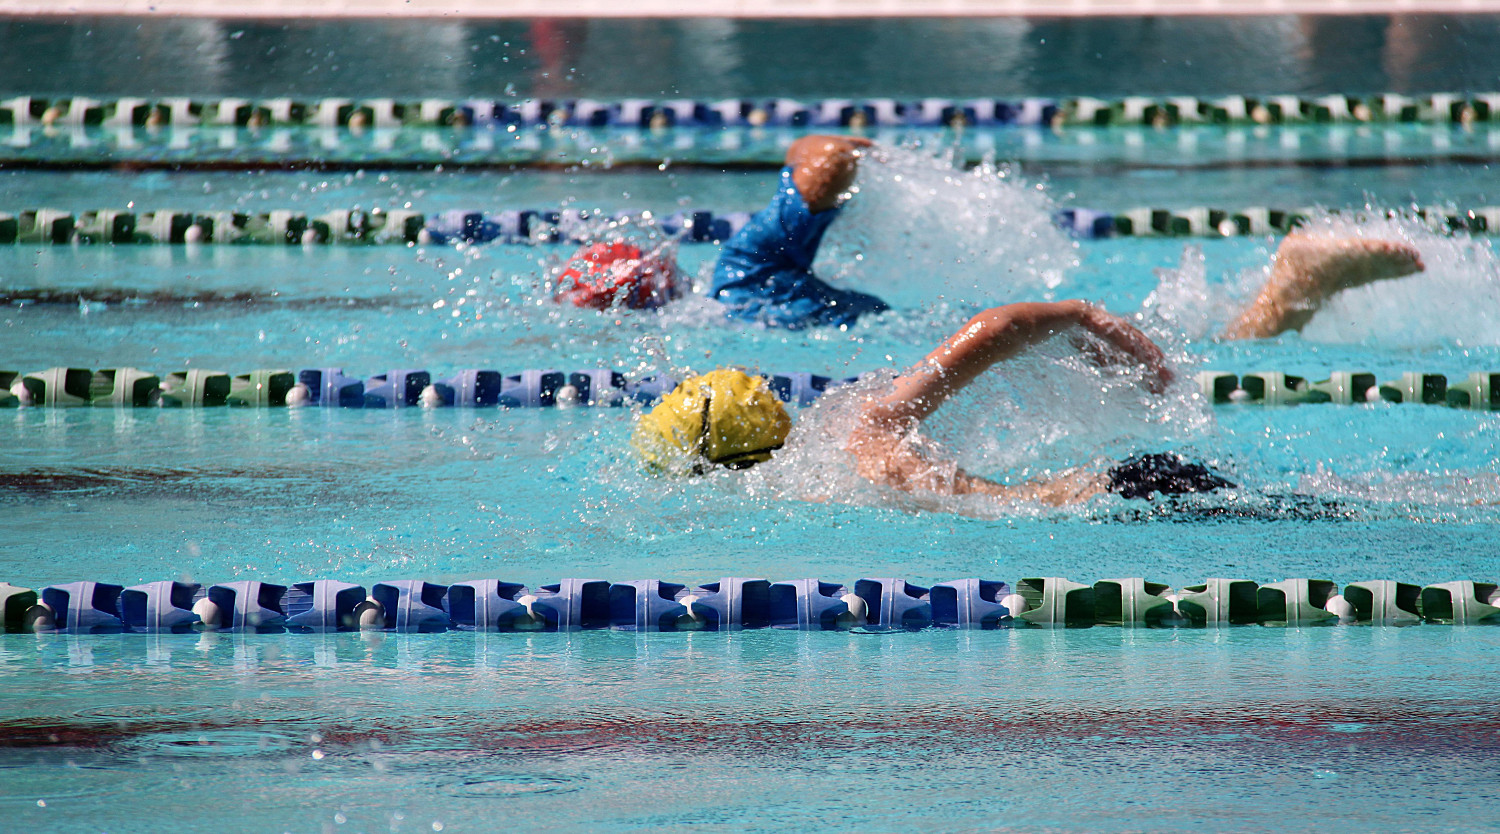
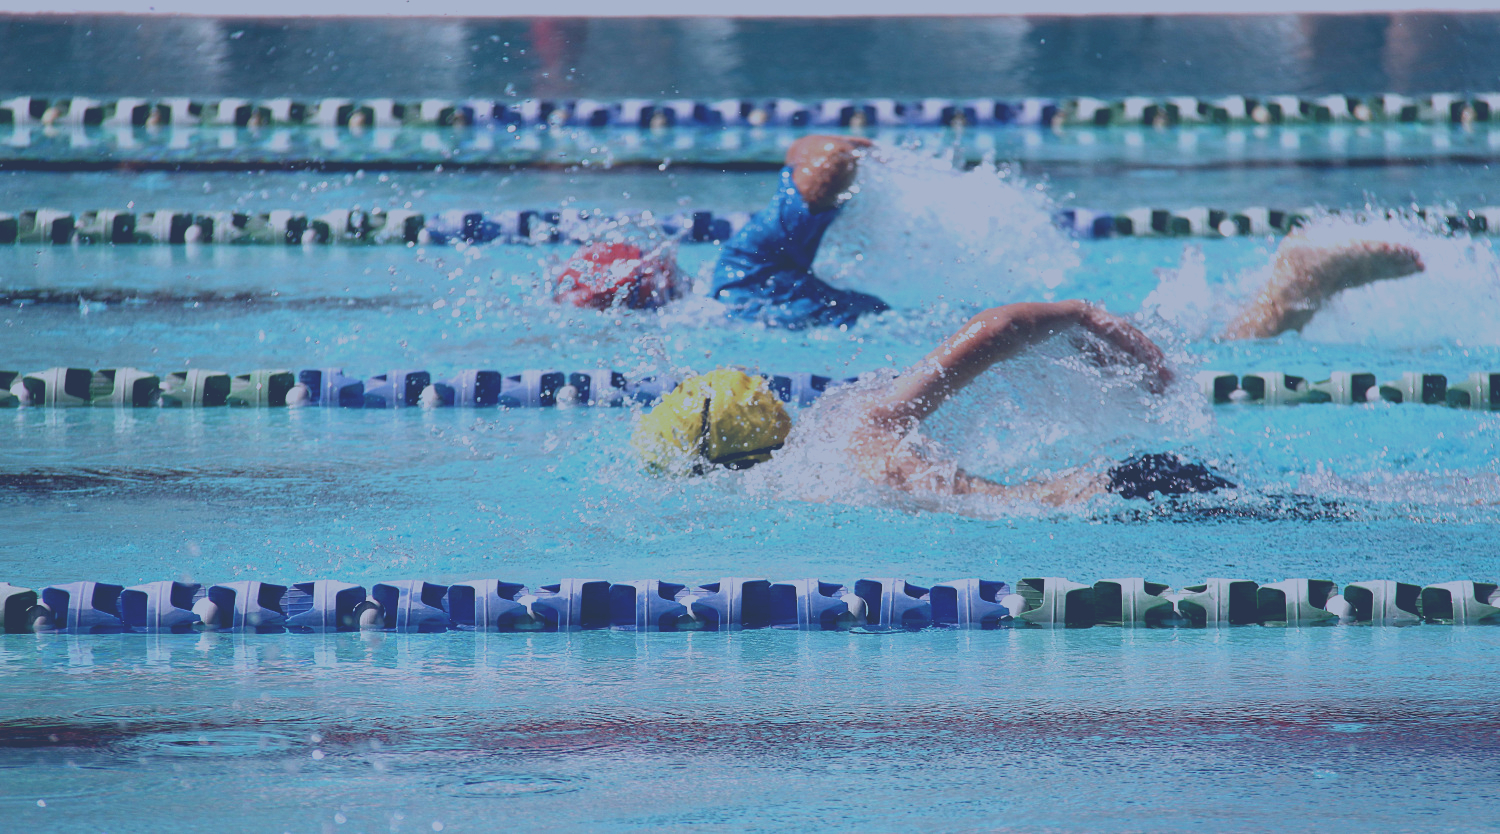
Added offer/user-registration form layout, styles and backend logic

diff --git a/app/Resources/style/partials/offerRegistration.scss b/app/Resources/style/partials/offerRegistration.scss
@@ -1,12 +1,27 @@
 // Offer registration page
-
 .background-image {
   width: 100%;
-  height: 345px;
   margin-top: -20px;
   background-image: url('../images/offer-register-background.jpg');
   background-position: center;
   background-size: cover;
+  display: table;
+}
+
+.title {
+  color: #fff;
+  margin: 0;
+  text-shadow: 0 0 20px #000;
+}
+
+.header-text {
+  text-align: center;
+  width: 100%;
+}
+
+.header-text,
+.background-image {
+  height: 345px;
 }
 
 .registration-pull-up {
@@ -16,10 +31,10 @@
   background-color: #fff;
   border: 1px solid #ccc;
   margin-bottom: 25px;
-  border-radius: 3px;
+  border-radius: 10px;
 }
 
-.registration-content {
+.content-form {
   border-radius: 3px;
   background-color: #fff;
   padding: 60px 30px 0;
@@ -92,7 +107,7 @@
     display: inline-block;
   }
 
-  .offer-submit {
+  .submit {
     width: 100%;
     margin-bottom: 30px;
     border-width: 0;
@@ -113,7 +128,8 @@
 }
 
 @media (max-width: 768px) {
-  .background-image {
+  .background-image,
+  .header-text {
     height: 100px;
   }
 
@@ -123,7 +139,11 @@
 }
 
 @media (min-width: 769px) {
-  .registration-content {
+  .content-form {
     max-width: 760px;
+  }
+
+  .content-form.narrow {
+    max-width: 480px;
   }
 }

diff --git a/src/AppBundle/Controller/HomeController.php b/src/AppBundle/Controller/HomeController.php
@@ -63,16 +63,6 @@ class HomeController extends Controller
     }
 
     /**
-     * User login action.
-     *
-     * @return Response
-     */
-    public function loginAction()
-    {
-        return $this->render('AppBundle:Home:login.html.twig', []);
-    }
-
-    /**
      * Coach info action.
      *
      * @param Request $request
@@ -87,13 +77,40 @@ class HomeController extends Controller
         $form->handleRequest($request);
 
         if ($form->isSubmitted() && $form->isValid()) {
+            // If user creates an account when registering an offer, we pass
+            // the offer being created and the user information to the
+            // user registration action, and then we persist the
+            // offer being created.
+            $userFields = $request->request->get('offer')['user'];
+            $userFields['_token'] = $request->request->get('_registration_token');
+            $request->request->set('_internal', true);
+            $request->request->set('fos_user_registration_form', $userFields);
+            $response = $this->forward(
+                'FOSUserBundle:Registration:register',
+                ['offer' => $offer]
+            );
             $em = $this->getDoctrine()->getManager();
             $em->persist($offer);
             $em->flush();
         }
 
+        // Checking if class level assertions failed and setting variables
+        // for the template to render error classes on invalid fields.
+        $errors = [
+            'ages' => false,
+            'gender' => false,
+        ];
+        foreach ($form->getErrors() as $error) {
+            if ($parameters = $error->getMessageParameters()) {
+                if (isset($parameters['id'])) {
+                    $errors[$parameters['id']] = $error->getMessage();
+                }
+            }
+        }
+
         return $this->render('AppBundle:Home:coaches.html.twig', [
             'form' => $form->createView(),
+            'errors' => $errors,
         ]);
     }
 

diff --git a/src/AppBundle/Form/OfferType.php b/src/AppBundle/Form/OfferType.php
@@ -51,13 +51,16 @@ class OfferType extends AbstractType
             ->addModelTransformer(new ImageTransformer())
             ->add('activity', null, [
                 'label' => 'Sporto šaka',
+                'placeholder' => 'Pasirinkite',
             ])
             ->add('latitude', null, [
                 'label' => false,
             ])
             ->add('longitude', null, [
                 'label' => false,
-            ]);
+            ])
+            ->add('user', new RegistrationType())
+        ;
     }
     
     /**
@@ -66,7 +69,8 @@ class OfferType extends AbstractType
     public function configureOptions(OptionsResolver $resolver)
     {
         $resolver->setDefaults(array(
-            'data_class' => 'AppBundle\Entity\Offer'
+            'data_class' => 'AppBundle\Entity\Offer',
+            'validation_groups' => ['CustomRegistration', 'Default'],
         ));
     }
 }

diff --git a/src/AppBundle/Entity/Offer.php b/src/AppBundle/Entity/Offer.php
@@ -35,6 +35,7 @@ class Offer
     /**
      * @ORM\ManyToOne(targetEntity="User", inversedBy="offers")
      * @ORM\JoinColumn(name="user_id", referencedColumnName="id")
+     * @Assert\Valid
      */
     private $user;
 
@@ -120,7 +121,7 @@ class Offer
     private $images;
 
     /**
-     * @ORM\OneToOne(targetEntity="AppBundle\Entity\OfferImage", mappedBy="offer", cascade={"persist"})
+     * @ORM\OneToOne(targetEntity="AppBundle\Entity\OfferImage")
      * @ORM\JoinColumn(name="main_image_id", referencedColumnName="id")
      */
     private $mainImage;
